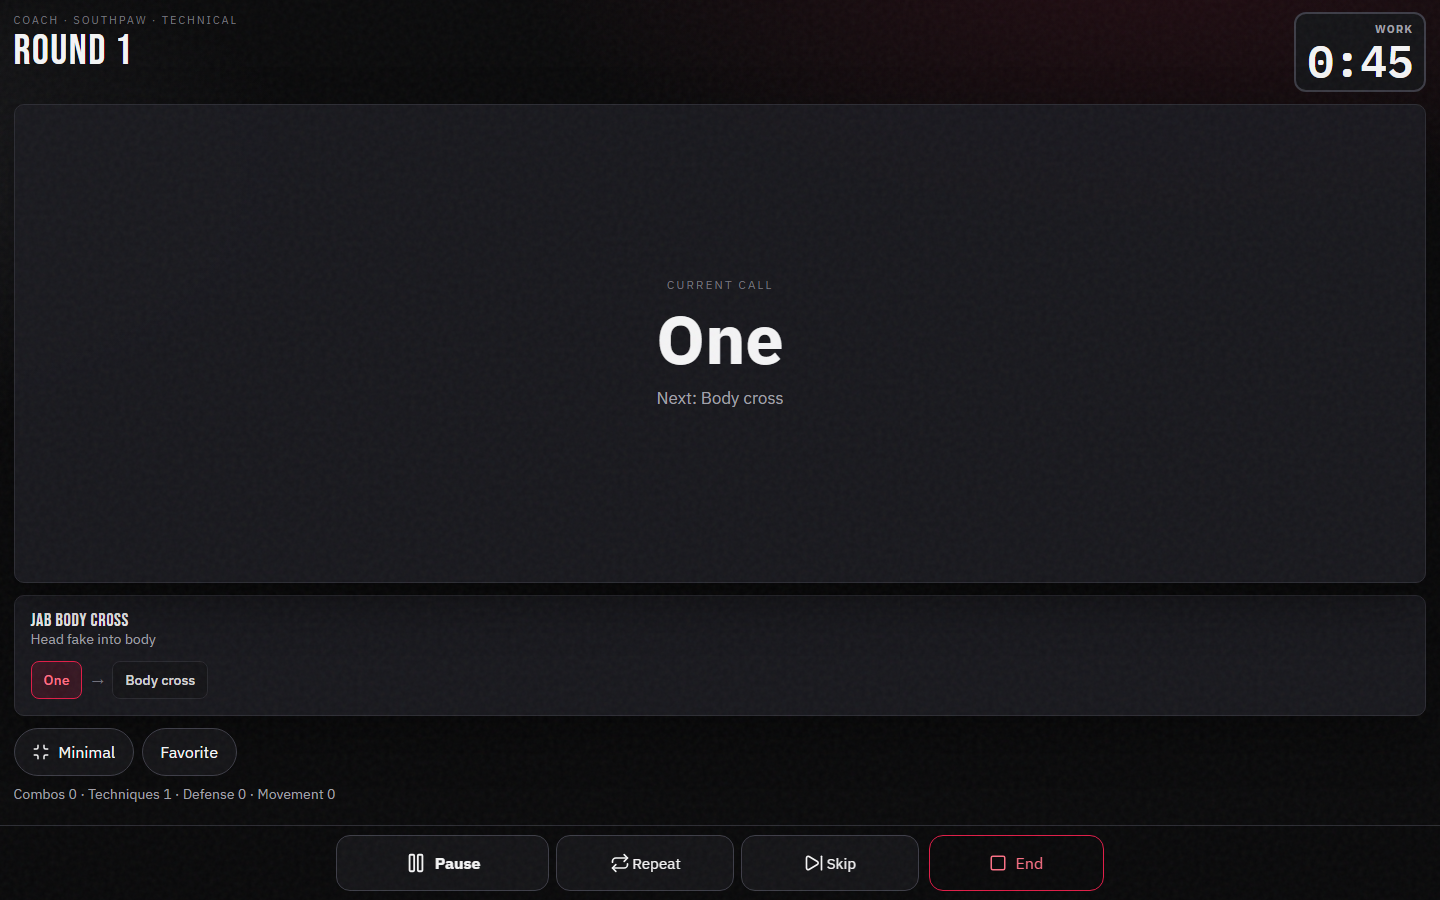
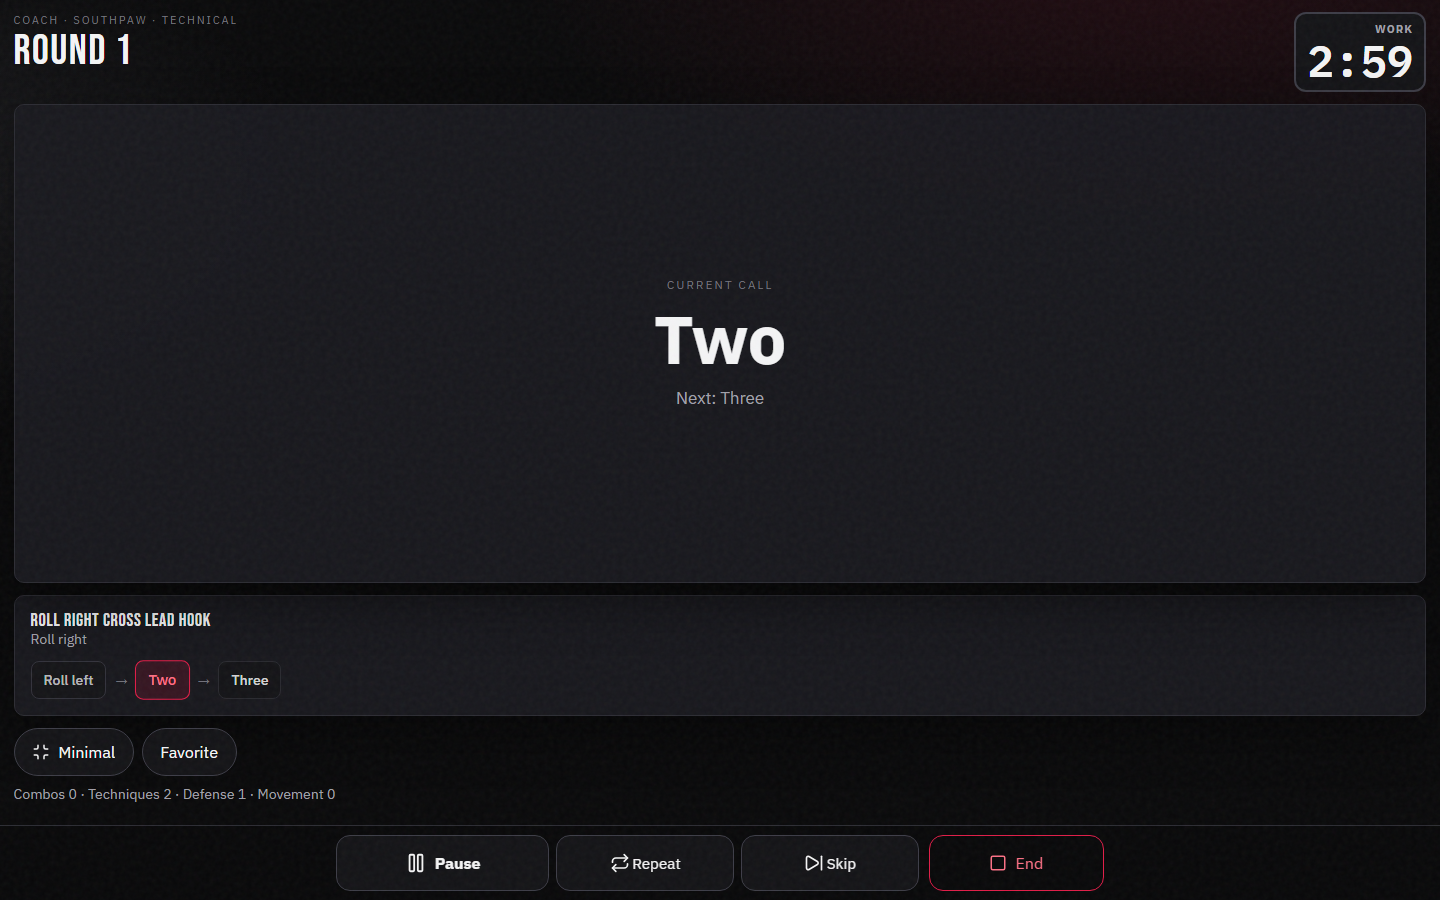
docs: refresh v1.3.3 portfolio screenshots and README facts

diff --git a/README.md b/README.md
@@ -47,16 +47,16 @@ StrikeCaller is built so every call is trainable — curated first, generated on
 ## Product walkthrough
 
 <p align="center">
-  <img src="./docs/screenshots/03-session-desktop.png" alt="Active desktop session: Round 1 work clock, current call One, next Body cross, southpaw technical Coach mode, session control dock" width="900">
+  <img src="./docs/screenshots/03-session-desktop.png" alt="Active desktop session: Round 1 WORK timer, current call Two, next Three, southpaw technical Coach mode, and Pause Repeat Skip End dock" width="900">
 </p>
 
 | Customize a workout | Daily Drill |
 |---|---|
-| <img src="./docs/screenshots/02-train-desktop.png" alt="Train screen with Boxing selected, Round Mode, southpaw stance, and a 3×180s technical session summary"> | <img src="./docs/screenshots/04-daily-desktop.png" alt="Daily Drill showing Jab jab rear low kick with Slow practice unlocked and later phases locked"> |
+| <img src="./docs/screenshots/02-train-desktop.png" alt="Train screen with Boxing selected, Round Mode, southpaw stance, and a 3×180s technical session summary"> | <img src="./docs/screenshots/04-daily-desktop.png" alt="Daily Drill showing Body cross lead hook cross with Slow practice unlocked and later phases locked"> |
 
 | Custom Combo Builder | Training Stats |
 |---|---|
-| <img src="./docs/screenshots/05-builder-desktop.png" alt="Custom Combo Builder with Boxing selected, Jab Cross titled sequence Jab then Cross, punch palette, and Save combo"> | <img src="./docs/screenshots/06-stats-desktop.png" alt="Training Stats local-only page with two sessions, Boxing and Muay Thai breakdown, and one saved custom combo"> |
+| <img src="./docs/screenshots/05-builder-desktop.png" alt="Custom Combo Builder with Boxing selected, Jab Cross sequence, punch palette, and Save combo"> | <img src="./docs/screenshots/06-stats-desktop.png" alt="Training Stats local-only page with two sessions, 18 minutes, and Boxing plus Muay Thai breakdown"> |
 
 <p align="center">
   <img src="./docs/screenshots/07-summary-desktop.png" alt="Durable workout summary after a completed Boxing southpaw technical Coach session, with work time, combinations, and frequent techniques" width="900">
@@ -65,9 +65,9 @@ StrikeCaller is built so every call is trainable — curated first, generated on
 Gym-oriented Session layout (mobile):
 
 <p align="center">
-  <img src="./docs/screenshots/08-session-mobile.png" alt="Mobile session: large current call, work timer, combo path, and thumb-zone Pause Repeat Skip End dock" width="390">
+  <img src="./docs/screenshots/08-session-mobile.png" alt="Mobile session: Round 1 WORK, large current call Two, combo path, and thumb-zone Pause Repeat Skip End dock" width="390">
   &nbsp;
-  <img src="./docs/screenshots/09-home-mobile.png" alt="Mobile home: StrikeCaller title, Quick Train, Guided Demo, and Customize Workout on a narrow viewport" width="390">
+  <img src="./docs/screenshots/09-home-mobile.png" alt="Mobile home: StrikeCaller v1.3.3, Quick Boxing, Guided Demo, and Customize Workout on a narrow viewport" width="390">
 </p>
 
 ## Engineering highlights
